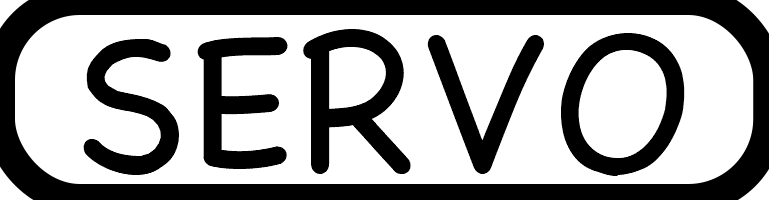
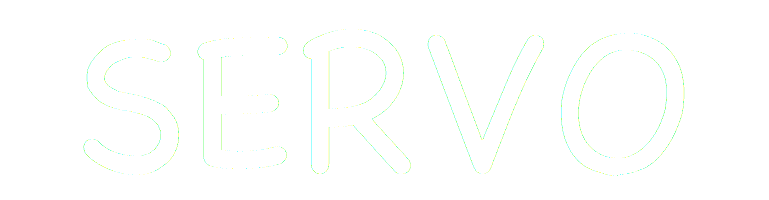
dummy

diff --git a/svg.py b/svg.py
@@ -5,7 +5,7 @@ from svgwrite.shapes import Rect
 
 FONT_SIZE = 200
 ROUNDNESS = 80
-COLOR = 'black'
+COLOR = 'white'
 def generateSVG(name):
 	XDIM = len(name) * FONT_SIZE/1.3
 	YDIM = FONT_SIZE 
